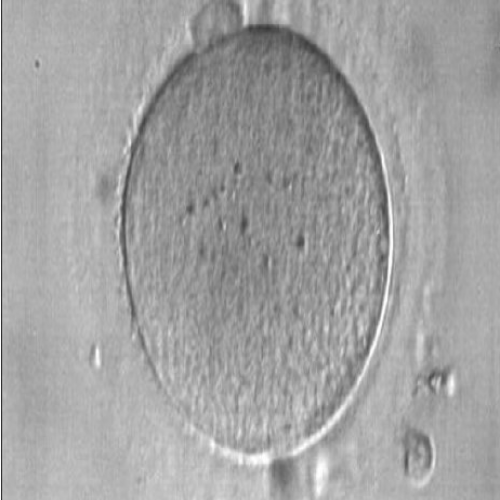
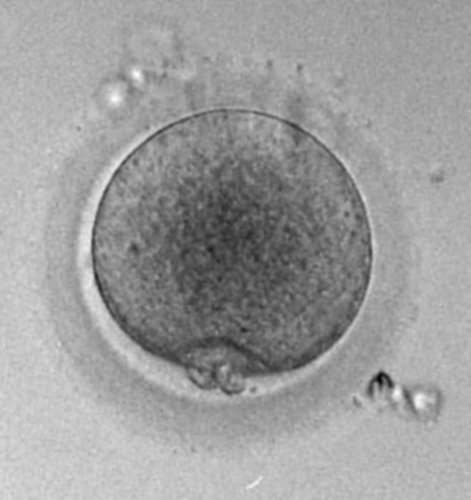
Update Ivf Plan report

diff --git a/resources/views/admin/ivf/ivf_plan_report_print.blade.php b/resources/views/admin/ivf/ivf_plan_report_print.blade.php
@@ -76,7 +76,7 @@ body {margin-top :250px;}
             </div>
             <div class="col-md-2 col-sm-2">
                 <span><strong>Age:</strong></span>
-                <span>{{!empty($ivfReport->getPatients['age']) ? $ivfReport->getPatients['age'] : '-'}}</span><br>
+                <span>{{!empty($ivfReport->getPatients['age']) ? $ivfReport->getPatients['age'].' Year' : '-'}}</span><br>
             </div>
         </div>
         <div class="row">
@@ -105,7 +105,7 @@ body {margin-top :250px;}
             </div>
             <div class="col-md-2 col-sm-2">
                 <span><strong>Weight:</strong></span>
-                <span>{{!empty($ivfReport->getPatients['weight']) ? $ivfReport->getPatients['weight'] : '-'}}</span><br>
+                <span>{{!empty($ivfReport->getPatients['weight']) ? $ivfReport->getPatients['weight'].' KG' : '-'}}</span><br>
             </div>
 
         </div>
@@ -243,14 +243,14 @@ body {margin-top :250px;}
                                 <td colspan="3">{{!empty($ivfReportData->ovum->quality) ? $ivfReportData->ovum->quality : '-'}}</td>
                             </tr>
                             @if(!isset($pt_view) || $pt_view != 1)
-                                <tr>
+                                {{-- <tr>
                                     <td><strong>Total Blastcyst</strong></td>
                                     <td colspan="3">{{!empty($ivfReportData->ovum->total_blastcyst) ? $ivfReportData->ovum->total_blastcyst : '-'}}</td>
                                 </tr>
                                 <tr>
                                     <td><strong>Blastcyst Rate:</strong></td>
                                     <td colspan="3">{{!empty($ivfReportData->ovum->blastcyst_rate) ? $ivfReportData->ovum->blastcyst_rate : '-'}}</td>
-                                </tr>
+                                </tr> --}}
                             @endif
                         </tbody>
                     </table>